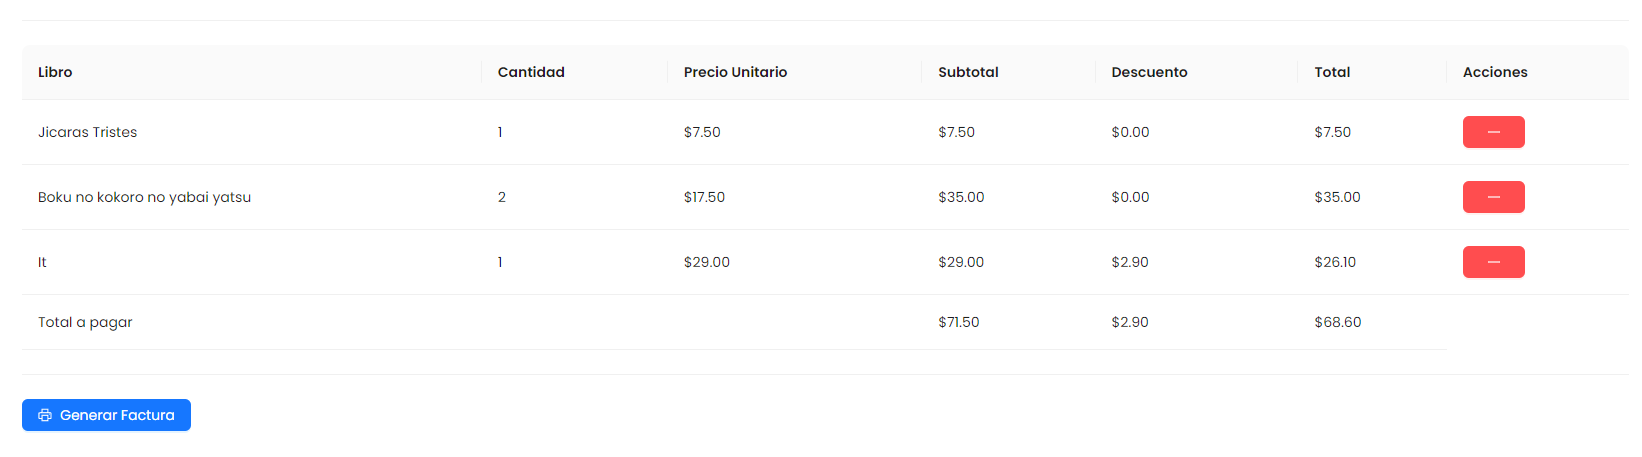
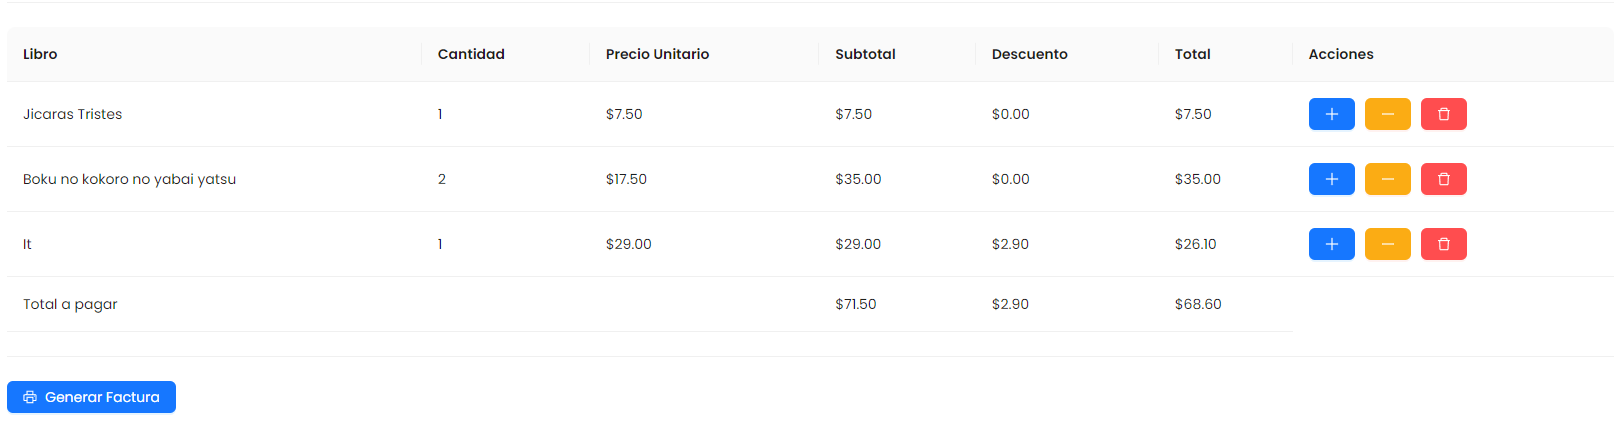
Frontend has been finished! Bills and Help Center has been updated

diff --git a/frontend/src/views/help/Help.jsx b/frontend/src/views/help/Help.jsx
@@ -34,6 +34,7 @@ import adminBills from "../../assets/images/admin/bills/bills.png";
 import selectBook from "../../assets/images/superadmin/bills/selectBook.png";
 import fillBillFields from "../../assets/images/superadmin/bills/fillBillFields.png";
 import addBookToFill from "../../assets/images/superadmin/bills/addBookToFill.png";
+import popConfirmDeleteBookOfBill from "../../assets/images/buttons/popConfirmDeleteBookOfBill.png";
 import fillBillClientFields from "../../assets/images/superadmin/bills/fillBillClientFields.png";
 import generateBill from "../../assets/images/buttons/generateBill.png";
 import successBillSaved from "../../assets/images/superadmin/bills/successBillSaved.png";
@@ -518,25 +519,6 @@ const Help = () => {
                                 <li>
                                   <h3> Paso 3. </h3>
                                   <p>
-                                    Da clic en el botón
-                                    <strong> Añadir libro</strong>, esto cargará
-                                    el libro en la tabla para proceder con la
-                                    facturación.
-                                  </p>
-                                  <div style={{ textAlign: "center" }}>
-                                    <Image
-                                      src={addBookToFill}
-                                      preview={false} // Desactiva la previsualización si no es necesaria
-                                      style={{
-                                        maxWidth: "100%",
-                                        height: "auto",
-                                      }} // Establece un ancho máximo y ajusta la altura automáticamente
-                                    />
-                                  </div>
-                                </li>
-                                <li>
-                                  <h3> Paso 4. </h3>
-                                  <p>
                                     Rellena los campos:
                                     <strong>
                                       {" "}
@@ -553,6 +535,79 @@ const Help = () => {
                                         height: "auto",
                                       }} // Establece un ancho máximo y ajusta la altura automáticamente
                                     />
+                                  </div>
+                                </li>
+                                <li>
+                                  <h3> Paso 4. </h3>
+                                  <p>
+                                    Da clic en el botón
+                                    <strong> Añadir libro</strong>, esto cargará
+                                    el libro en la tabla para proceder con la
+                                    facturación.
+                                  </p>
+                                  <div style={{ textAlign: "center" }}>
+                                    <Image
+                                      src={addBookToFill}
+                                      preview={false} // Desactiva la previsualización si no es necesaria
+                                      style={{
+                                        maxWidth: "100%",
+                                        height: "auto",
+                                      }} // Establece un ancho máximo y ajusta la altura automáticamente
+                                    />
+                                  </div>
+                                  <br />
+                                  <Alert
+                                    message={
+                                      <>
+                                        {" "}
+                                        <strong>Importante</strong>{" "}
+                                      </>
+                                    }
+                                    description={
+                                      <>
+                                        <p>
+                                          Si desea aumentar la cantidad de
+                                          libros a un libro ya existente en la
+                                          tabla, debe dar clic en el botón con
+                                          el signo <strong>+</strong>, en caso
+                                          de desear restar cantidad a un libro
+                                          ya existente en la tabla, de clic en
+                                          el botón con el signo{" "}
+                                          <strong>-</strong> y en caso de desear
+                                          eliminar el libro de la tabla, de clic
+                                          en el botón con el signo de{" "}
+                                          <strong>cesto de basura</strong>.
+                                        </p>
+                                      </>
+                                    }
+                                    type="warning"
+                                  />{" "}
+                                  <br />
+                                  <div>
+                                    <p>
+                                      {" "}
+                                      En caso de hacer clic sobre el botón
+                                      eliminar, se desplegará el siguiente
+                                      cuadro de confirmación:{" "}
+                                    </p>
+                                    <div style={{ textAlign: "center" }}>
+                                      <Image
+                                        src={popConfirmDeleteBookOfBill}
+                                        preview={false} // Desactiva la previsualización si no es necesaria
+                                        style={{
+                                          maxWidth: "100%",
+                                          height: "auto",
+                                        }} // Establece un ancho máximo y ajusta la altura automáticamente
+                                      />
+                                    </div>
+                                    <p>
+                                      {" "}
+                                      Si escoge la opción <strong>No</strong>,
+                                      no ocurrirá nada, sin embargo, si decide
+                                      escoger la opción <strong>Sí</strong>,
+                                      esto removerá el libro de la tabla de
+                                      libros a facturar.{" "}
+                                    </p>
                                   </div>
                                 </li>
                                 <li>
@@ -1220,7 +1275,12 @@ const Help = () => {
                                   </div>
                                   <br />
                                   <Alert
-                                    message="Importante"
+                                    message={
+                                      <>
+                                        {" "}
+                                        <strong>Importante</strong>{" "}
+                                      </>
+                                    }
                                     description="Si se elimina un género literario que ya contiene libros dentro de sí, todos los que pertenezcan a este ya no serán accesibles desde las vistas adyacentes a ellos."
                                     type="warning"
                                   />

diff --git a/frontend/src/views/bills/Bills.jsx b/frontend/src/views/bills/Bills.jsx
@@ -1,5 +1,5 @@
 import React, { useState, useEffect } from "react";
-import { UserOutlined, MinusOutlined, PrinterOutlined } from "@ant-design/icons";
+import { UserOutlined, PlusOutlined, MinusOutlined, DeleteOutlined, PrinterOutlined } from "@ant-design/icons";
 import {
   Breadcrumb,
   Form,
@@ -13,7 +13,7 @@ import {
   Col,
   Table,
   InputNumber,
-  Checkbox,
+  Popconfirm,
   theme,
   message,
 } from "antd";
@@ -98,7 +98,7 @@ const Bills = () => {
   };
 
   const handleAddBook = () => {
-    const formValues = form.getFieldsValue(); // Obtener los valores del formulario
+    const formValues = form.getFieldsValue();
     if (!formValues.nombre || !formValues.apellido) {
       message.warning("Por favor, complete los campos requeridos");
       return;
@@ -114,6 +114,15 @@ const Bills = () => {
         return;
       }
 
+      const existingBook = selectedBooks.find(
+        (book) => book.value === values.libro
+      );
+
+      if (existingBook) {
+        message.warning("El libro ya está en la lista.");
+        return;
+      }
+
       const subtotal = (values.cantidad * values.precioUnitario).toFixed(2);
       const descuento =
         values.descuento > 0 && values.descuento < 10
@@ -123,50 +132,15 @@ const Bills = () => {
           : 0;
       const total = (subtotal - descuento).toFixed(2);
 
-      const existingBook = selectedBooks.find(
-        (book) => book.value === values.libro
-      );
-
-      if (existingBook) {
-        const updatedBooks = selectedBooks.map((book) => {
-          if (book.value === values.libro) {
-            const newCantidad = book.cantidad + values.cantidad;
-            if (newCantidad > selectedBook.existencia) {
-              message.warning(
-                `Sólo hay ${selectedBook.existencia} libros disponibles.`
-              );
-              return book;
-            }
-            const newSubtotal = (newCantidad * book.precioUnitario).toFixed(2);
-            const newDescuento =
-              values.descuento > 0 && values.descuento < 10
-                ? (newSubtotal * ("0.0" + values.descuento)).toFixed(2)
-                : values.descuento > 9 && values.descuento < 90
-                ? (newSubtotal * ("0." + values.descuento)).toFixed(2)
-                : 0;
-            const newTotal = (newSubtotal - newDescuento).toFixed(2);
-            return {
-              ...book,
-              cantidad: newCantidad,
-              subtotal: newSubtotal,
-              descuento: newDescuento,
-              total: newTotal,
-            };
-          }
-          return book;
-        });
-        setSelectedBooks(updatedBooks);
-      } else {
-        const newBook = {
-          ...selectedBook,
-          cantidad: values.cantidad,
-          precioUnitario: values.precioUnitario,
-          subtotal,
-          descuento,
-          total,
-        };
-        setSelectedBooks([...selectedBooks, newBook]);
-      }
+      const newBook = {
+        ...selectedBook,
+        cantidad: values.cantidad,
+        precioUnitario: values.precioUnitario,
+        subtotal,
+        descuento,
+        total,
+      };
+      setSelectedBooks([...selectedBooks, newBook]);
 
       form.setFieldsValue({
         libro: books[0]?.value,
@@ -175,6 +149,32 @@ const Bills = () => {
         descuento: 0,
       });
     });
+  };
+
+  const handleIncreaseBook = (value) => {
+    const updatedBooks = selectedBooks.map((book) => {
+      if (book.value === value) {
+        const newCantidad = book.cantidad + 1;
+        const selectedBook = books.find((b) => b.value === value);
+        if (newCantidad > selectedBook.existencia) {
+          message.warning(
+            `Sólo hay ${selectedBook.existencia} libros disponibles.`
+          );
+          return book;
+        }
+        const newSubtotal = (newCantidad * book.precioUnitario).toFixed(2);
+        const newDescuento = book.descuento;
+        const newTotal = (newSubtotal - newDescuento).toFixed(2);
+        return {
+          ...book,
+          cantidad: newCantidad,
+          subtotal: newSubtotal,
+          total: newTotal,
+        };
+      }
+      return book;
+    });
+    setSelectedBooks(updatedBooks);
   };
 
   const handleReduceBook = (value) => {
@@ -198,6 +198,11 @@ const Bills = () => {
         return book;
       })
       .filter((book) => book !== null);
+    setSelectedBooks(updatedBooks);
+  };
+
+  const handleRemoveBook = (value) => {
+    const updatedBooks = selectedBooks.filter((book) => book.value !== value);
     setSelectedBooks(updatedBooks);
   };
 
@@ -422,7 +427,37 @@ const Bills = () => {
       title: "Acciones",
       key: "acciones",
       render: (_, record) => (
-        <Button type="primary" danger onClick={() => handleReduceBook(record.value)}> <MinusOutlined /> </Button>
+        <div>
+          <Button
+            type="primary"
+            onClick={() => handleIncreaseBook(record.value)}
+          >
+            <PlusOutlined />
+          </Button>
+          <Button
+            type="primary"
+            danger
+            onClick={() => handleReduceBook(record.value)}
+            style={{marginRight: "10px", marginLeft: "10px", backgroundColor: "#fbac14"}}
+          >
+            <MinusOutlined />
+          </Button>
+          <Popconfirm
+            title="Eliminar registro"
+            description="¿Está seguro de eliminar este registro?"
+            onConfirm={() => handleRemoveBook(record.value)}
+            onCancel={() => {}}
+            okText="Sí"
+            cancelText="No"
+          >
+            <Button
+            type="primary"
+            danger
+            >
+              <DeleteOutlined />
+            </Button>
+          </Popconfirm>
+        </div>
       ),
     },
   ];
